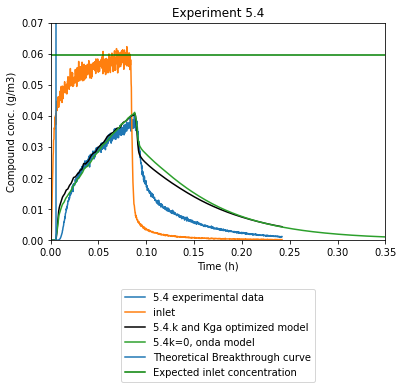
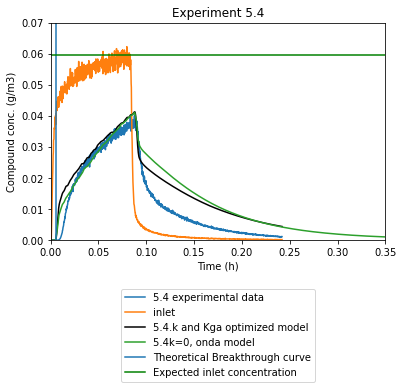
Working on getting #27 to converge
Preventing negative values

diff --git a/applications/Lab experiments/New structure/Tasks/2.0 Automatic optimization/optimization_test - version3.py b/applications/Lab experiments/New structure/Tasks/2.0 Automatic optimization/optimization_test - version3.py
@@ -183,9 +183,9 @@ c_meas = c_out
 def res_calc(x):
     L, por_g, por_l, v_g, v_l, nc, cg0, cl0, cgin, clin,henry, pKa, pH , temp, dens_l, v_res, times, c_meas # import parameters for the model into the optimization definition
 
-    kl = x[0]
-    k = x[1]
-    k2 = x[2]
+    kl = abs(x[0])
+    k = abs(x[1])
+    k2 = abs(x[2])
 
     pred_opt= tfmod(L = L, por_g = por_g, por_l = por_l, v_g = v_g, v_l = v_l, nc = nc, cg0 = cg0, 
                   cl0 = cl0, cgin = cgin, clin = clin, Kga = 'individual', k = k, k2 = k2, henry = henry, pKa = pKa, 
@@ -204,9 +204,9 @@ copt = sol['x']
 
 
 # Models for plotting_______________________________________________________________________________________
-kl_fit = float(copt[0])
-k_fit = float(copt[1])
-k2_fit = float(copt[2])
+kl_fit = abs(float(copt[0]))
+k_fit = abs(float(copt[1]))
+k2_fit = abs(float(copt[2]))
 
 pred1 = tfmod(L = L, por_g = por_g, por_l = por_l, v_g = v_g, v_l = v_l, nc = nc, cg0 = cg0, 
               cl0 = cl0, cgin = cgin, clin = clin, Kga = 'individual' , k = k_fit, k2 = k2_fit, henry = henry, pKa = pKa, 
@@ -240,7 +240,7 @@ plt.xlim(0,0.35)
 plt.ylim(0,0.07)
 plt.subplot(111).legend(loc='upper center',bbox_to_anchor=(0.5,-0.2)) #Moves legend out of plot
 plt.title('Experiment '+first+'.'+second)
-plt.savefig('Plots/Experiment '+first+'.'+second+'optimized kl, k2 and k.png', bbox_inches='tight')
+plt.savefig('Plots/Experiment '+first+'.'+second+'logcurve test.png', bbox_inches='tight')
 plt.close()
 
 #table with input paramters
@@ -273,6 +273,6 @@ table_ax.set_fontsize(8)
 plt.title('Experiment '+first+'.'+second)
 
 # Save the figure
-plt.savefig('Plots/Inputs/Input_parameters_'+first+'.'+second+'optimized kl, k2 and k.png', bbox_inches='tight')
+plt.savefig('Plots/Inputs/Input_parameters_'+first+'.'+second+'logcurve test.png', bbox_inches='tight')
 
 

diff --git a/applications/Lab experiments/New structure/Tasks/2.1 Automatic optimization for multiple data sets/optimization_test - version3.py b/applications/Lab experiments/New structure/Tasks/2.1 Automatic optimization for multiple data sets/optimization_test - version3.py
@@ -1,4 +1,4 @@
-# Comparison of numerical Python model to closed-form solution with instant partitioning (equilibrium everywhere)
+ # Comparison of numerical Python model to closed-form solution with instant partitioning (equilibrium everywhere)
 
 # Import necessary packages ~~~~~~~~~~~~~~~~~~~~~~~~~~~~~~~~~~~~~~~~~~~~~~~~~~~~~~~
 import sys
@@ -9,7 +9,7 @@ from scipy.optimize import least_squares
 
 
 # Import model ~~~~~~~~~~~~~~~~~~~~~~~~~~~~~~~~~~~~~~~~~~~~~~~~~~~~~~~~~~~~~~~~~~~~
-sys.path.append("../../../..")  # Add the directory containing mod_funcs.py to Python path
+sys.path.append("../../../../..")  # Add the directory containing mod_funcs.py to Python path
 from mod_funcs import tfmod 
 
 
@@ -24,9 +24,9 @@ modelresults_dict = {}
 exp_no1 = 4
 exp_no2 = 7
 
-IG_kl = 0.000002
-IG_k = 0
-IG_k2 = 0
+IG_kl = 0.1
+IG_k = 0.1
+IG_k2 = 0.1
 diff_step = 10
     
 for i in [exp_no1,exp_no2]:
@@ -204,9 +204,9 @@ def res_calc(x):
     
     #Define wat is in each position in the answer array x
 
-    kl = x[0]
-    k = x[1]
-    k2 = x[2]
+    kl = abs(x[0])
+    k = abs(x[1])
+    k2 = abs(x[2])
     
     #Model number 1 + residue calculation
     pred_opt1= tfmod(L = L, por_g = por_g, por_l = por_l, v_g = v_g, v_l = v_l, nc = nc, cg0 = cg0, 
@@ -234,9 +234,9 @@ copt = sol['x']
 
 
 # Models for plotting_______________________________________________________________________________________
-kl_fit = float(copt[0])
-k_fit = float(copt[1])
-k2_fit = float(copt[2])
+kl_fit = abs(float(copt[0]))
+k_fit = abs(float(copt[1]))
+k2_fit = abs(float(copt[2]))
 
 #First experiment___________________________________________________________________________________________
 second = str(exp_no1)
